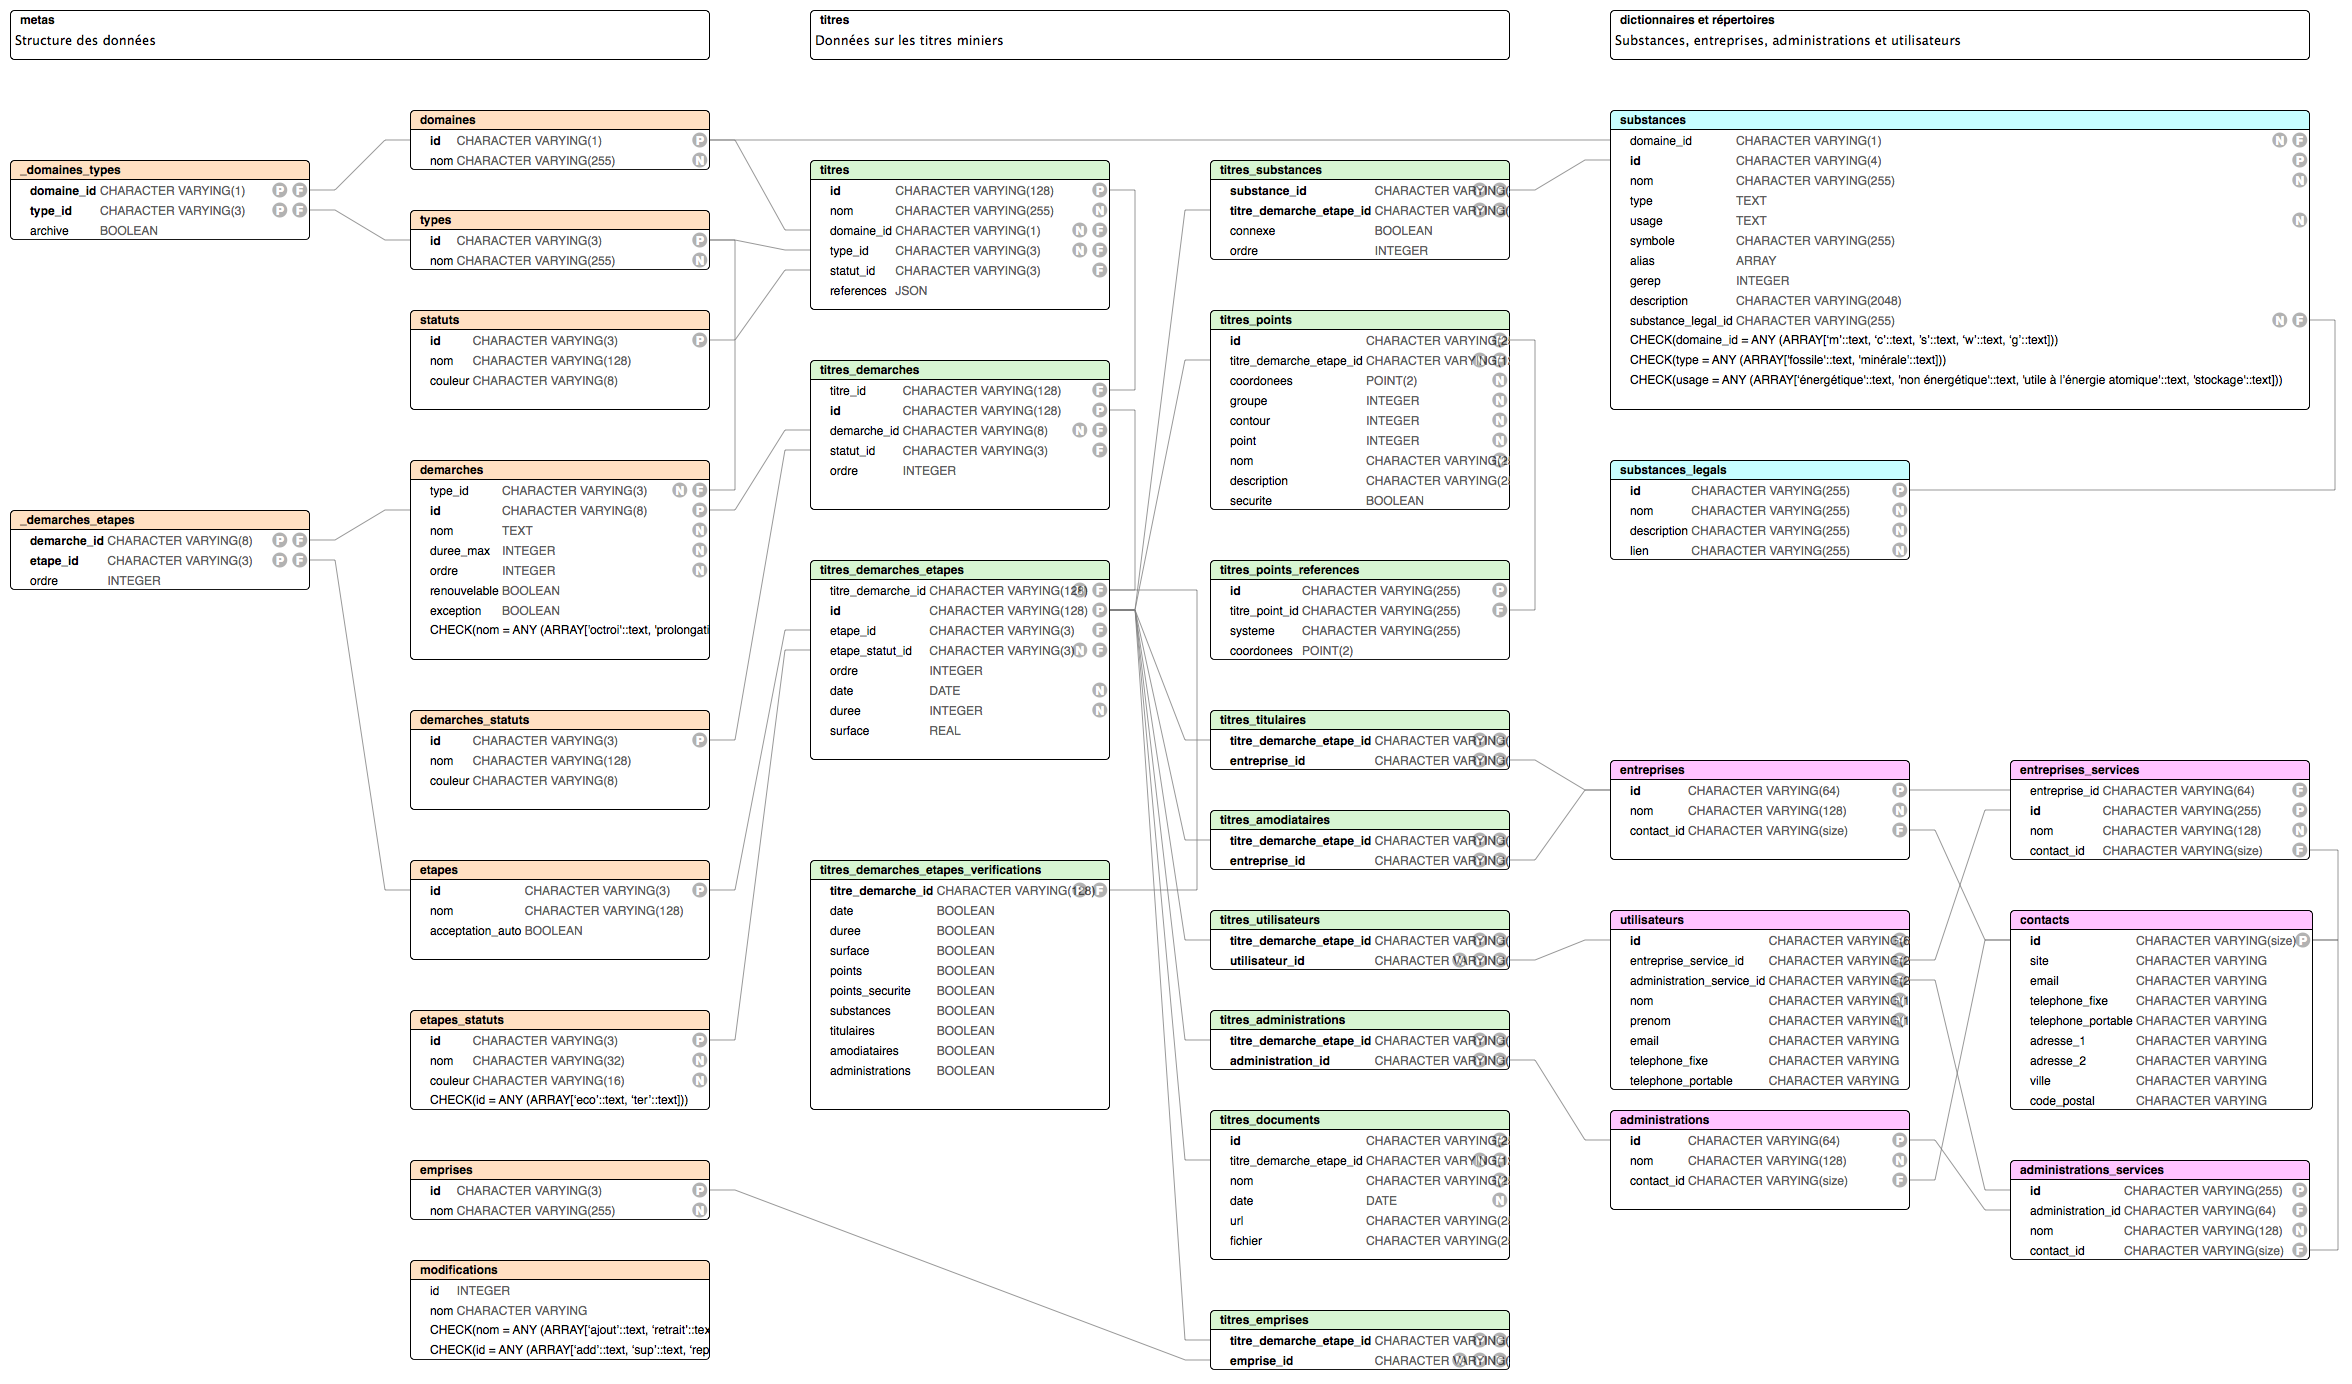
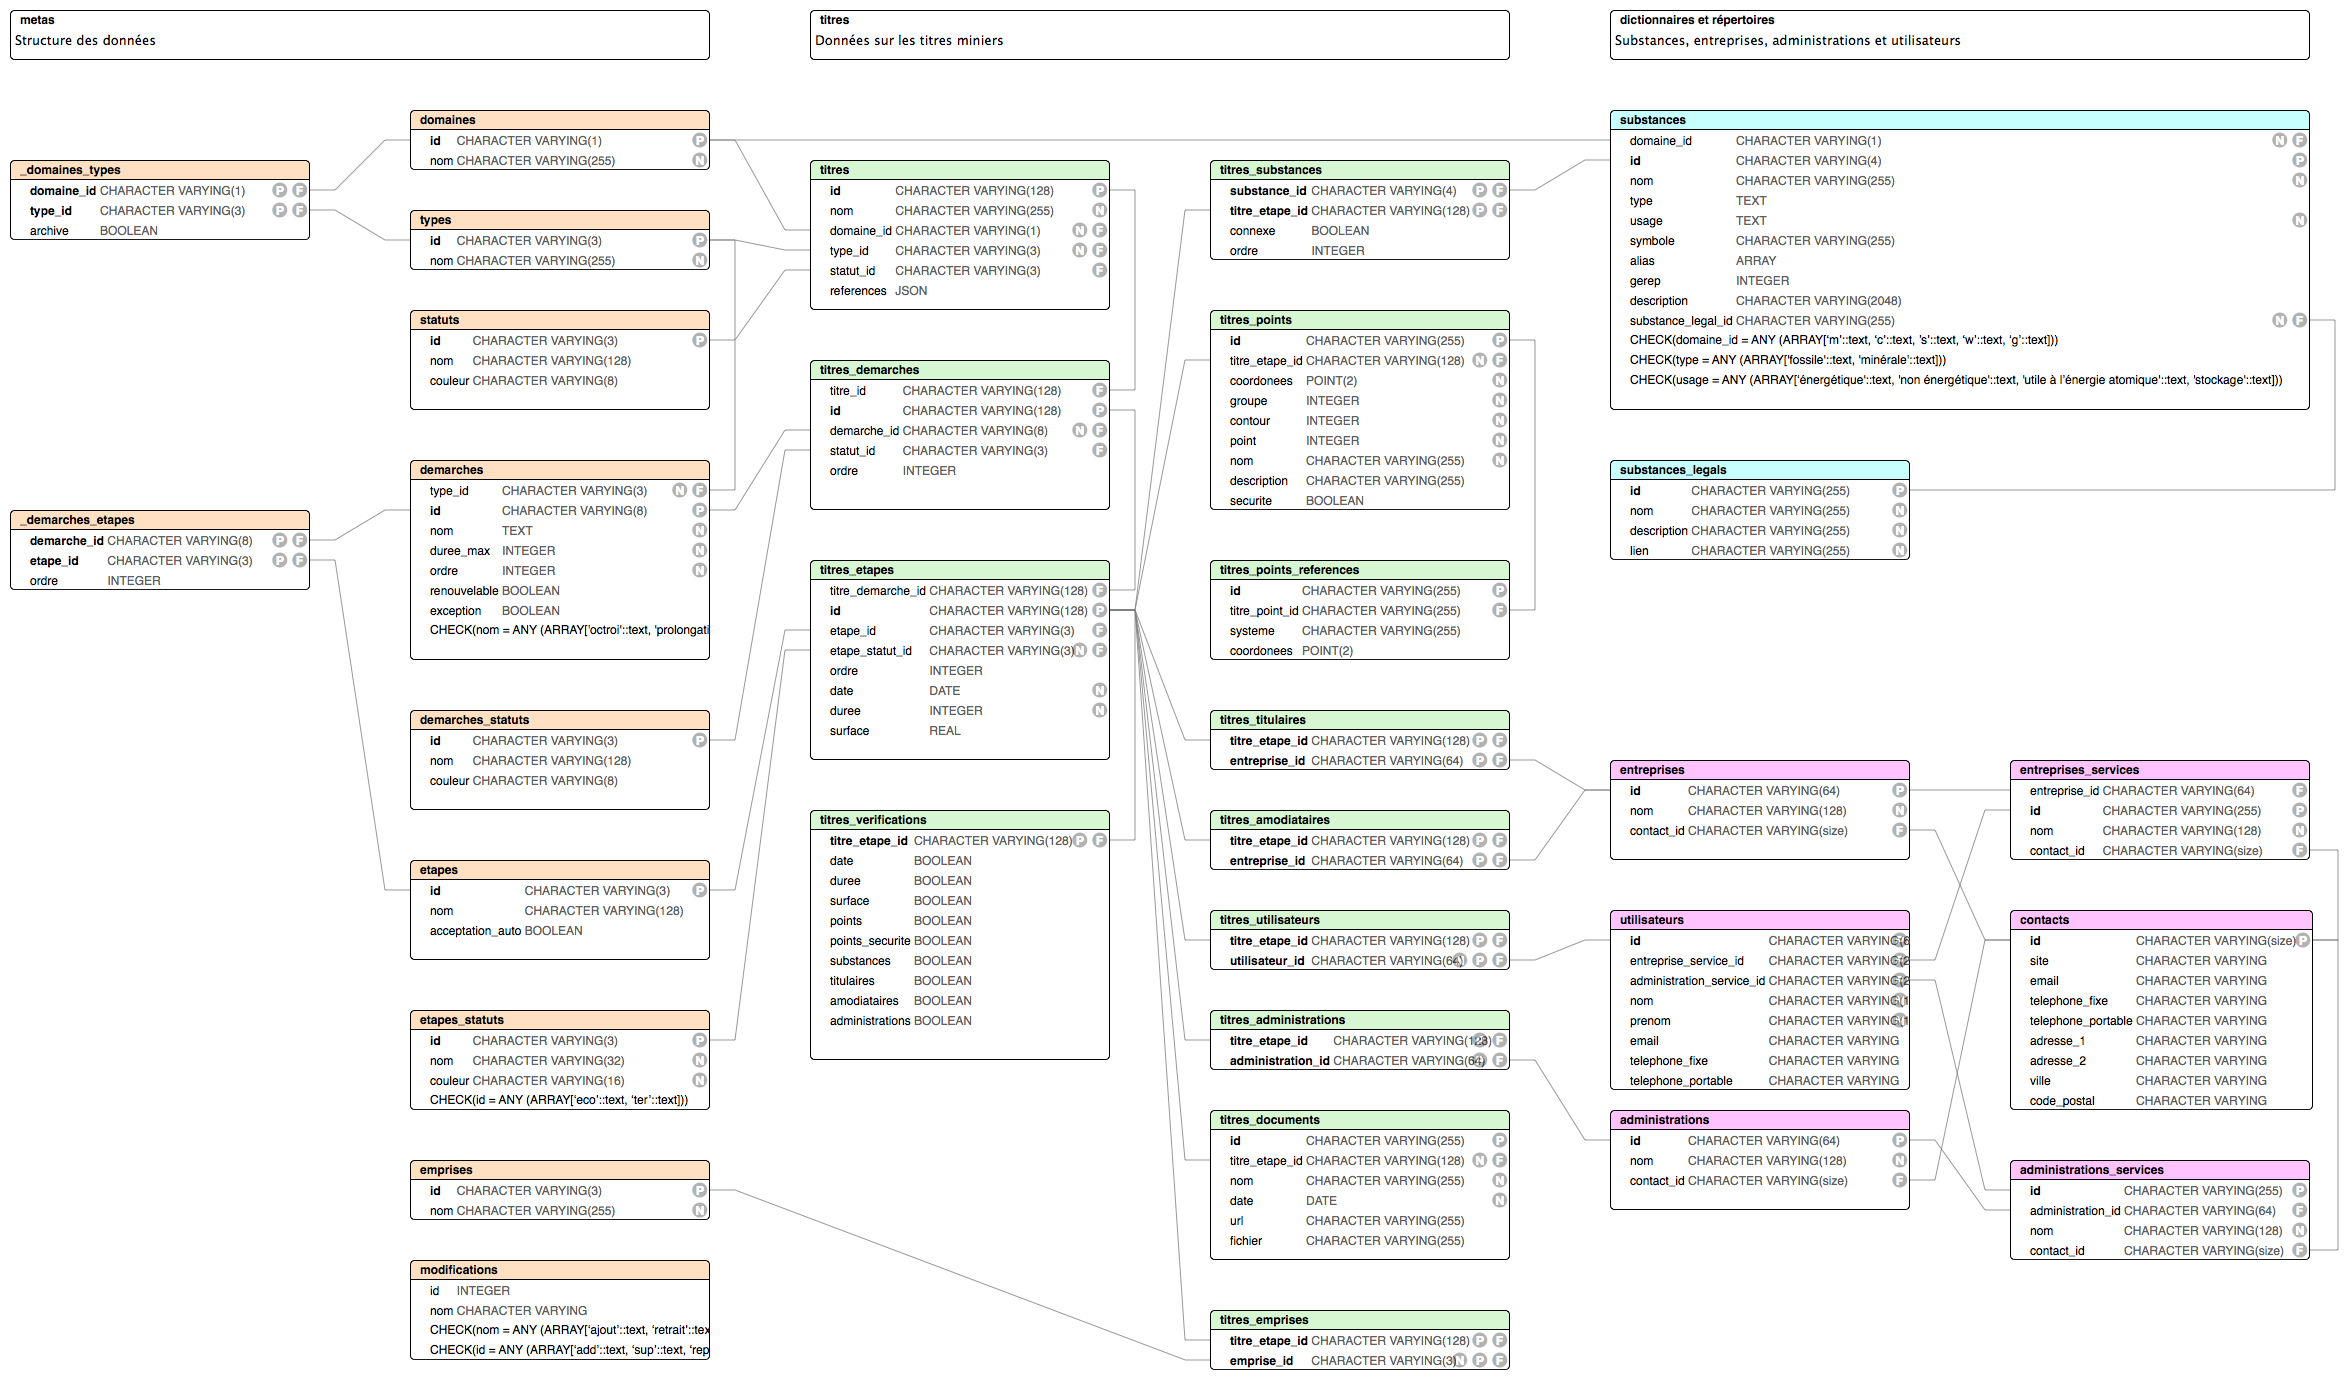
refactor: renomme titres_demarches_etapes en titres_etapes

diff --git a/postgres/models/titres-etapes.js b/postgres/models/titres-etapes.js
@@ -12,7 +12,7 @@ const titresEmprises = require('./titres-emprises')
 
 class Phases extends Model {
   static get tableName() {
-    return 'titres_demarches_etapes'
+    return 'titres_etapes'
   }
 
   static get jsonSchema() {
@@ -39,7 +39,7 @@ class Phases extends Model {
         relation: Model.BelongsToOneRelation,
         modelClass: Etapes,
         join: {
-          from: 'titres_demarches_etapes.etape_id',
+          from: 'titres_etapes.etape_id',
           to: 'etapes.id'
         }
       },
@@ -47,7 +47,7 @@ class Phases extends Model {
         relation: Model.BelongsToOneRelation,
         modelClass: EtapesStatuts,
         join: {
-          from: 'titres_demarches_etapes.etape_statut_id',
+          from: 'titres_etapes.etape_statut_id',
           to: 'etapes_statuts.id'
         }
       },
@@ -55,9 +55,9 @@ class Phases extends Model {
         relation: Model.ManyToManyRelation,
         modelClass: Substances,
         join: {
-          from: 'titres_demarches_etapes.id',
+          from: 'titres_etapes.id',
           through: {
-            from: 'titres_substances.titre_demarche_etape_id',
+            from: 'titres_substances.titre_etape_id',
             to: 'titres_substances.substance_id',
             extra: ['ordre', 'connexe']
           },
@@ -68,56 +68,56 @@ class Phases extends Model {
         relation: Model.HasManyRelation,
         modelClass: titresPoints,
         join: {
-          from: 'titres_demarches_etapes.id',
-          to: 'titres_points.titre_demarche_etape_id'
+          from: 'titres_etapes.id',
+          to: 'titres_points.titre_etape_id'
         }
       },
       titulaires: {
         relation: Model.HasManyRelation,
         modelClass: titresTitulaires,
         join: {
-          from: 'titres_demarches_etapes.id',
-          to: 'titres_titulaires.titre_demarche_etape_id'
+          from: 'titres_etapes.id',
+          to: 'titres_titulaires.titre_etape_id'
         }
       },
       amodiataires: {
         relation: Model.HasManyRelation,
         modelClass: titresAmodiataires,
         join: {
-          from: 'titres_demarches_etapes.id',
-          to: 'titres_amodiataires.titre_demarche_etape_id'
+          from: 'titres_etapes.id',
+          to: 'titres_amodiataires.titre_etape_id'
         }
       },
       utilisateurs: {
         relation: Model.HasManyRelation,
         modelClass: titresUtilisateurs,
         join: {
-          from: 'titres_demarches_etapes.id',
-          to: 'titres_utilisateurs.titre_demarche_etape_id'
+          from: 'titres_etapes.id',
+          to: 'titres_utilisateurs.titre_etape_id'
         }
       },
       administrations: {
         relation: Model.HasManyRelation,
         modelClass: titresAdministrations,
         join: {
-          from: 'titres_demarches_etapes.id',
-          to: 'titres_administrations.titre_demarche_etape_id'
+          from: 'titres_etapes.id',
+          to: 'titres_administrations.titre_etape_id'
         }
       },
       documents: {
         relation: Model.HasManyRelation,
         modelClass: titresDocuments,
         join: {
-          from: 'titres_demarches_etapes.id',
-          to: 'titres_documents.titre_demarche_etape_id'
+          from: 'titres_etapes.id',
+          to: 'titres_documents.titre_etape_id'
         }
       },
       emprises: {
         relation: Model.HasManyRelation,
         modelClass: titresEmprises,
         join: {
-          from: 'titres_demarches_etapes.id',
-          to: 'titres_emprises.titre_demarche_etape_id'
+          from: 'titres_etapes.id',
+          to: 'titres_emprises.titre_etape_id'
         }
       }
     }

diff --git a/_tools/knex/migrations/20180522174720_titres_etapes_utilisateurs_titulaires_amodiataires_administrations.js b/_tools/knex/migrations/20180522174720_titres_etapes_utilisateurs_titulaires_amodiataires_administrations.js
@@ -2,51 +2,51 @@ exports.up = (knex, Promise) => {
   return knex.schema
     .createTable('titres_titulaires', table => {
       table
-        .string('titre_demarche_etape_id', 128)
-        .references('titres_demarches_etapes.id')
+        .string('titre_etape_id', 128)
+        .references('titres_etapes.id')
         .notNullable()
         .onDelete('CASCADE')
       table
         .string('entreprise_id', 64)
         .references('entreprises.id')
         .notNullable()
-      table.primary(['titre_demarche_etape_id', 'entreprise_id'])
+      table.primary(['titre_etape_id', 'entreprise_id'])
     })
     .createTable('titres_amodiataires', table => {
       table
-        .string('titre_demarche_etape_id', 128)
-        .references('titres_demarches_etapes.id')
+        .string('titre_etape_id', 128)
+        .references('titres_etapes.id')
         .notNullable()
         .onDelete('CASCADE')
       table
         .string('entreprise_id', 64)
         .references('entreprises.id')
         .notNullable()
-      table.primary(['titre_demarche_etape_id', 'entreprise_id'])
+      table.primary(['titre_etape_id', 'entreprise_id'])
     })
     .createTable('titres_utilisateurs', table => {
       table
-        .string('titre_demarche_etape_id', 128)
-        .references('titres_demarches_etapes.id')
+        .string('titre_etape_id', 128)
+        .references('titres_etapes.id')
         .notNullable()
         .onDelete('CASCADE')
       table
         .string('utilisateur_id', 4)
         .references('utilisateurs.id')
         .notNullable()
-      table.primary(['titre_demarche_etape_id', 'utilisateur_id'])
+      table.primary(['titre_etape_id', 'utilisateur_id'])
     })
     .createTable('titres_administrations', table => {
       table
-        .string('titre_demarche_etape_id', 128)
-        .references('titres_demarches_etapes.id')
+        .string('titre_etape_id', 128)
+        .references('titres_etapes.id')
         .notNullable()
         .onDelete('CASCADE')
       table
         .string('administration_id', 4)
         .references('administrations.id')
         .notNullable()
-      table.primary(['titre_demarche_etape_id', 'administration_id'])
+      table.primary(['titre_etape_id', 'administration_id'])
     })
 }
 

diff --git a/_tools/knex/seeds/4-titres.js b/_tools/knex/seeds/4-titres.js
@@ -1,6 +1,6 @@
 const m = require('../../sources/titres/m/titres.json')
 const mDemarches = require('../../sources/titres/m/titres_demarches.json')
-const mDemarchesEtapes = require('../../sources/titres/m/titres_demarches_etapes.json')
+const mEtapes = require('../../sources/titres/m/titres_etapes.json')
 const mEmprises = require('../../sources/titres/m/titres_emprises.json')
 const mPoints = require('../../sources/titres/m/titres_points.json')
 const mSubstances = require('../../sources/titres/m/titres_substances.json')
@@ -8,7 +8,7 @@ const mTitulaires = require('../../sources/titres/m/titres_titulaires.json')
 
 const titres = [...m]
 const titresDemarches = [...mDemarches]
-const titresDemarchesEtapes = [...mDemarchesEtapes]
+const titresEtapes = [...mEtapes]
 const titresSubstances = [...mSubstances]
 const titresPoints = [...mPoints]
 const titresTitulaires = [...mTitulaires]
@@ -18,7 +18,7 @@ exports.seed = (knex, Promise) =>
   Promise.all([
     knex('titres').del(),
     knex('titres_demarches').del(),
-    knex('titres_demarches_etapes').del(),
+    knex('titres_etapes').del(),
     knex('titres_emprises').del(),
     knex('titres_points').del(),
     knex('titres_substances').del(),
@@ -26,7 +26,7 @@ exports.seed = (knex, Promise) =>
   ])
     .then(() => knex('titres').insert(titres))
     .then(() => knex('titres_demarches').insert(titresDemarches))
-    .then(() => knex('titres_demarches_etapes').insert(titresDemarchesEtapes))
+    .then(() => knex('titres_etapes').insert(titresEtapes))
     .then(() =>
       Promise.all([
         knex('titres_substances').insert(titresSubstances),

diff --git a/_tools/knex/migrations/20180522174715_titres_etapes_substances_emprises.js b/_tools/knex/migrations/20180522174715_titres_etapes_substances_emprises.js
@@ -2,8 +2,8 @@ exports.up = (knex, Promise) => {
   return knex.schema
     .createTable('titres_substances', table => {
       table
-        .string('titre_demarche_etape_id', 128)
-        .references('titres_demarches_etapes.id')
+        .string('titre_etape_id', 128)
+        .references('titres_etapes.id')
         .notNullable()
         .onDelete('CASCADE')
       table
@@ -12,19 +12,19 @@ exports.up = (knex, Promise) => {
         .notNullable()
       table.boolean('connexe')
       table.integer('ordre')
-      table.primary(['titre_demarche_etape_id', 'substance_id'])
+      table.primary(['titre_etape_id', 'substance_id'])
     })
     .createTable('titres_emprises', table => {
       table
-        .string('titre_demarche_etape_id', 128)
+        .string('titre_etape_id', 128)
         .notNullable()
-        .references('titres_demarches_etapes.id')
+        .references('titres_etapes.id')
         .onDelete('CASCADE')
       table
         .string('emprise_id', 3)
         .notNullable()
         .references('emprises.id')
-      table.primary(['titre_demarche_etape_id', 'emprise_id'])
+      table.primary(['titre_etape_id', 'emprise_id'])
     })
 }
 

diff --git a/postgres/models/titres-demarches.js b/postgres/models/titres-demarches.js
@@ -1,7 +1,7 @@
 const { Model } = require('objection')
 const Demarches = require('./demarches')
 const DemarchesStatuts = require('./demarches-statuts')
-const TitresDemarchesEtapes = require('./titres-demarches-etapes')
+const TitresEtapes = require('./titres-etapes')
 
 class TitresDemarches extends Model {
   static get tableName() {
@@ -35,10 +35,10 @@ class TitresDemarches extends Model {
       },
       etapes: {
         relation: Model.HasManyRelation,
-        modelClass: TitresDemarchesEtapes,
+        modelClass: TitresEtapes,
         join: {
           from: 'titres_demarches.id',
-          to: 'titres_demarches_etapes.titre_demarche_id'
+          to: 'titres_etapes.titre_demarche_id'
         }
       },
       statut: {

diff --git a/_tools/knex/migrations/20180522134857_titres_demarches_etapes.js b/_tools/knex/migrations/20180522134857_titres_demarches_etapes.js
@@ -17,7 +17,7 @@ exports.up = knex => {
         .references('demarches_statuts.id')
       table.integer('ordre')
     })
-    .createTable('titres_demarches_etapes', table => {
+    .createTable('titres_etapes', table => {
       table.string('id', 128).primary()
       table
         .string('titre_demarche_id', 128)
@@ -45,7 +45,5 @@ exports.up = knex => {
 }
 
 exports.down = knex => {
-  return knex.schema
-    .dropTable('titres_demarches')
-    .dropTable('titres_demarches_etapes')
+  return knex.schema.dropTable('titres_demarches').dropTable('titres_etapes')
 }

diff --git a/postgres/models/titres-points.js b/postgres/models/titres-points.js
@@ -12,7 +12,7 @@ class TitresPoints extends Model {
       type: 'object',
       required: [
         'id',
-        'titre_demarche_etape_id',
+        'titre_etape_id',
         'coordonees',
         'groupe',
         'contour',
@@ -21,7 +21,7 @@ class TitresPoints extends Model {
 
       properties: {
         id: { type: 'string' },
-        titre_demarche_etape_id: { type: 'string', maxLength: 128 },
+        titre_etape_id: { type: 'string', maxLength: 128 },
         coordonees: {
           type: 'object',
           properties: {

diff --git a/postgres/models/titres-documents.js b/postgres/models/titres-documents.js
@@ -8,11 +8,11 @@ class TitresDocuments extends Model {
   static get jsonSchema() {
     return {
       type: 'object',
-      required: ['id', 'titre_demarche_etape_id', 'nom', 'date'],
+      required: ['id', 'titre_etape_id', 'nom', 'date'],
 
       properties: {
         id: { type: 'string' },
-        titre_demarche_etape_id: { type: 'string', maxLength: 128 },
+        titre_etape_id: { type: 'string', maxLength: 128 },
         nom: { type: 'string' },
         date: { type: 'date' },
         url: { type: 'string' },

diff --git a/postgres/models/titres-substances.js b/postgres/models/titres-substances.js
@@ -9,11 +9,11 @@ class TitresSubstances extends Model {
   static get jsonSchema() {
     return {
       type: 'object',
-      required: ['substance_id', 'titre_demarche_etape_id'],
+      required: ['substance_id', 'titre_etape_id'],
 
       properties: {
         substance_id: { type: 'string', maxLength: 4 },
-        titre_demarche_etape_id: { type: 'string', maxLength: 128 },
+        titre_etape_id: { type: 'string', maxLength: 128 },
         connexe: { type: 'boolean' },
         ordre: { type: 'integer' }
       }

diff --git a/postgres/models/titres-administrations.js b/postgres/models/titres-administrations.js
@@ -9,11 +9,11 @@ class TitresAdministrations extends Model {
   static get jsonSchema() {
     return {
       type: 'object',
-      required: ['administration_id', 'titre_demarche_etape_id'],
+      required: ['administration_id', 'titre_etape_id'],
 
       properties: {
         administration_id: { type: 'string', maxLength: 64 },
-        titre_demarche_etape_id: { type: 'string', maxLength: 128 }
+        titre_etape_id: { type: 'string', maxLength: 128 }
       }
     }
   }

diff --git a/postgres/models/titres-utilisateurs.js b/postgres/models/titres-utilisateurs.js
@@ -9,11 +9,11 @@ class TitresUtilisateurs extends Model {
   static get jsonSchema() {
     return {
       type: 'object',
-      required: ['utilisateur_id', 'titre_demarche_etape_id'],
+      required: ['utilisateur_id', 'titre_etape_id'],
 
       properties: {
         utilisateur_id: { type: 'string', maxLength: 64 },
-        titre_demarche_etape_id: { type: 'string', maxLength: 128 }
+        titre_etape_id: { type: 'string', maxLength: 128 }
       }
     }
   }

diff --git a/postgres/models/titres-amodiataires.js b/postgres/models/titres-amodiataires.js
@@ -9,11 +9,11 @@ class TitresAmodiataires extends Model {
   static get jsonSchema() {
     return {
       type: 'object',
-      required: ['entreprise_id', 'titre_demarche_etape_id'],
+      required: ['entreprise_id', 'titre_etape_id'],
 
       properties: {
         entreprise_id: { type: 'string', maxLength: 64 },
-        titre_demarche_etape_id: { type: 'string', maxLength: 128 }
+        titre_etape_id: { type: 'string', maxLength: 128 }
       }
     }
   }
